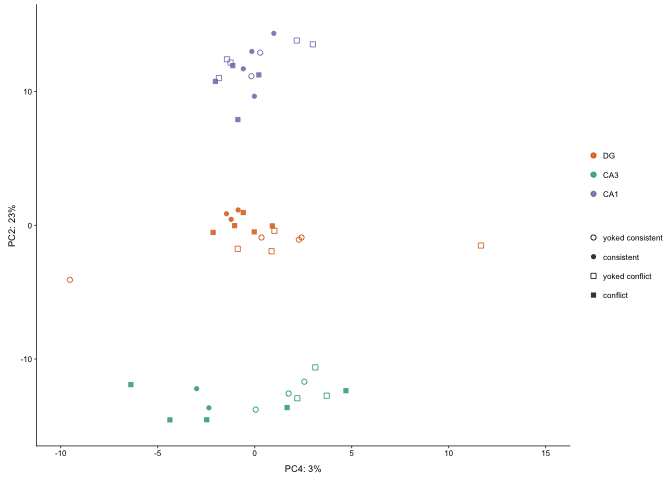
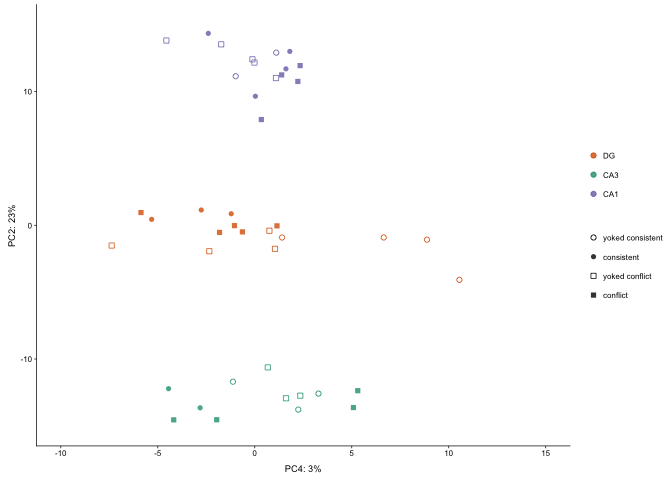
better pcas

diff --git a/scripts/02b_rnaseqALL.md b/scripts/02b_rnaseqALL.md
@@ -594,7 +594,19 @@ Principle component analysis
     ## ---
     ## Signif. codes:  0 '***' 0.001 '**' 0.01 '*' 0.05 '.' 0.1 ' ' 1
 
-![](../figures/02b_RNAseqAll/pca-1.png)![](../figures/02b_RNAseqAll/pca-2.png)![](../figures/02b_RNAseqAll/pca-3.png)![](../figures/02b_RNAseqAll/pca-4.png)
+![](../figures/02b_RNAseqAll/pca-1.png)
+
+    ## Warning: Removed 1 rows containing missing values (geom_point).
+
+![](../figures/02b_RNAseqAll/pca-2.png)
+
+    ## Warning: Removed 1 rows containing missing values (geom_point).
+
+![](../figures/02b_RNAseqAll/pca-3.png)
+
+    ## Warning: Removed 1 rows containing missing values (geom_point).
+
+![](../figures/02b_RNAseqAll/pca-4.png)
 
     ## quartz_off_screen 
     ##                 2
